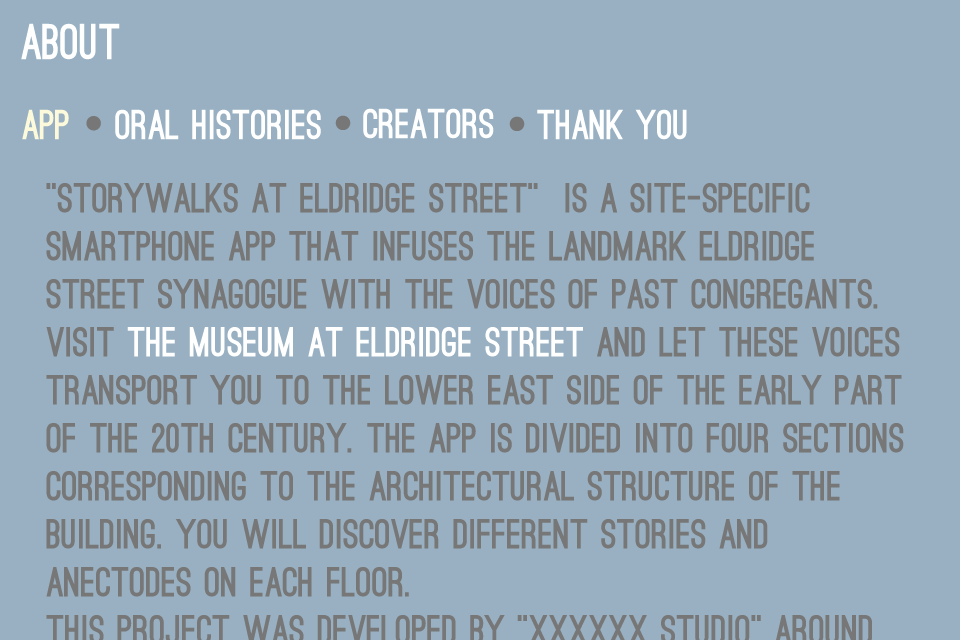
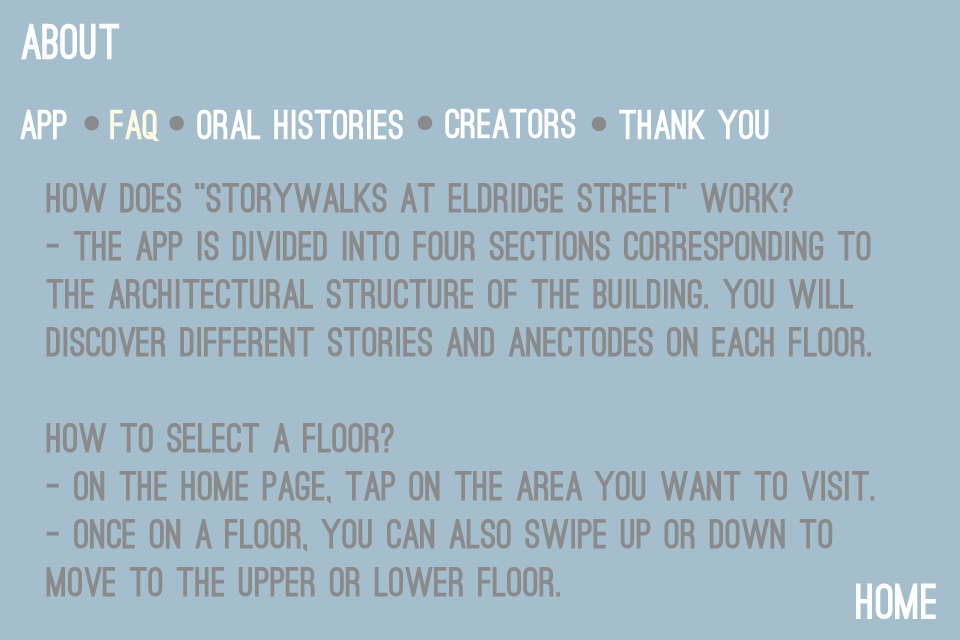
About page

diff --git a/ESS/src/aboutScene.mm b/ESS/src/aboutScene.mm
@@ -17,7 +17,7 @@ void aboutScene::setup() {
 //------------------------------------------------------------------
 void aboutScene::update() {
     switch(mgr.getCurScene()) {
-        case ABOUT_SCENE_FIRST:
+        case ABOUT_SCENE_APP:
             //Do stuff
             break;            
     }
@@ -25,7 +25,7 @@ void aboutScene::update() {
 
 //------------------------------------------------------------------
 void aboutScene::activate() {
-    mgr.setCurScene(ABOUT_SCENE_FIRST);
+    mgr.setCurScene(ABOUT_SCENE_APP);
     
     canvasW = 480;	//these define where the camera can pan to
     canvasH = 600;
@@ -37,20 +37,23 @@ void aboutScene::activate() {
     
 	cam.lookAt( ofVec2f(canvasW/2, 160) );
     cam.setViewportConstrain( ofVec3f(0,0), ofVec3f(canvasW, canvasH)); //limit browseable area, in world units
+
     
-    cout << "width is " << ofGetWidth() << endl; 
+    aboutScreen.loadImage("flattenFiles/AboutHorizontal.png");
     
-    aboutScreen.loadImage("flattenFiles/ESS-iPhone-About.png");
+    pApp.loadImage ("flattenFiles/about/AboutTextAPP.png"); 
+    pOralHistories.loadImage ("flattenFiles/about/AboutTextORALHISTORIES.png"); 
+    pCreators.loadImage ("flattenFiles/about/AboutTextCREATORS.png"); 
+    pThanks.loadImage ("flattenFiles/about/AboutTextTHANKYOU.png"); 
+    pFAQ.loadImage("flattenFiles/about/AboutTextFAQ.png"); 
+    
     //button.setImage(&aboutScreen,&aboutScreen);
     
-    rectHome.set(canvasW-70, canvasH-30, 70, 30);
-    TrectHome.set(canvasW-70, ofGetHeight() - 30, 70, 30);
-    cout << "rectHome is " << rectHome.x << " " <<  rectHome.y << endl; 
+    rectHome.set(ofGetWidth()-70, ofGetHeight() -30, 70, 30);
     
     buttHome.setLabel("HOME", &essAssets->ostrich24);
-    buttHome.setRect(rectHome);
-    buttHome.setGLRect(TrectHome);
-    buttHome.setColor(essAssets->ess_white, essAssets->ess_grey);
+    buttHome.setPos(ofGetWidth()-70, ofGetHeight() -40); 
+    buttHome.setColor(essAssets->ess_white, essAssets->ess_white);
     buttHome.disableBG();
     
     buttResetXML.setLabel("RESET", &essAssets->ostrich30);
@@ -60,8 +63,34 @@ void aboutScene::activate() {
     
     ofBackground(essAssets->ess_blue);
     
+    int leftMargin = 5; 
+    int dotMargin = 20; 
+    navY = 40; 
+    
+    int appL = essAssets->ostrich19.getStringWidth("APP"); 
+    int faqL = essAssets->ostrich19.getStringWidth("FAQ"); 
+    int OHL = essAssets->ostrich19.getStringWidth("ORAL HISTORIES");
+    int creatL = essAssets->ostrich19.getStringWidth("CREATORS");
+    
+    nApp.setLabel("APP", &essAssets->ostrich19); 
+    nApp.setPos (leftMargin, navY); 
+    nApp.disableBG();
 
-
+    nFAQ.setLabel("FAQ", &essAssets->ostrich19); 
+    nFAQ.setPos (appL + leftMargin + dotMargin, navY); 
+    nFAQ.disableBG();
+    
+    nOralHistories.setLabel("ORAL HISTORIES", &essAssets->ostrich19); 
+    nOralHistories.setPos (appL + faqL + leftMargin + dotMargin*2, navY ); 
+    nOralHistories.disableBG();
+        
+    nCreators.setLabel("CREATORS", &essAssets->ostrich19); 
+    nCreators.setPos (appL + faqL + OHL + leftMargin + dotMargin*3, navY); 
+    nCreators.disableBG();
+    
+    nThanks.setLabel("THANK YOU", &essAssets->ostrich19); 
+    nThanks.setPos (appL + faqL + OHL + creatL + leftMargin + dotMargin*4, navY); 
+    nThanks.disableBG();
     
 }
 
@@ -73,30 +102,65 @@ void aboutScene::deactivate() {
 
 //------------------------------------------------------------------
 void aboutScene::draw() {
-    
-    
+
     cam.apply(); //put all our drawing under the ofxPanZoom effect
+    //aboutScreen.draw (0,0, ofGetWidth(), ofGetHeight()); 
+    nApp.draw(); 
+    nFAQ.draw(); 
+    nOralHistories.draw();
+    nCreators.draw(); 
+    nThanks.draw(); 
+    
+    textY = navY + 50; 
+    
 
-
+    
     switch(mgr.getCurScene()) {
-        case ABOUT_SCENE_FIRST:
+        case ABOUT_SCENE_APP:
             
-            ofEnableAlphaBlending();
+            
+            
+            nApp.setColor (essAssets->ess_yellow); 
+            pApp.draw(0,textY,ofGetWidth(), pApp.height/2); 
+            cam.reset();	//back to normal ofSetupScreen() projection            
+            break;
+            
+        case ABOUT_SCENE_FAQ:
+            
 
             
-            ofSetColor(255, 255, 255); 
-            aboutScreen.draw (0,0, 480, 523); 
+            nFAQ.setColor (essAssets->ess_yellow); 
+            pFAQ.draw(0,textY,ofGetWidth(), pFAQ.height/2); 
+            cam.reset();	//back to normal ofSetupScreen() projection            
+            break;
             
-            buttHome.draw(); 
-            buttResetXML.draw();
-            ofDisableAlphaBlending();
+        case ABOUT_SCENE_ORALHISTORIES:
             
+            nOralHistories.setColor (essAssets->ess_yellow); 
+            pOralHistories.draw(0,textY,ofGetWidth(), pOralHistories.height/2); 
+            cam.reset();	//back to normal ofSetupScreen() projection            
+            break;
+            
+        case ABOUT_SCENE_CREATORS:
+            
+            nCreators.setColor (essAssets->ess_yellow); 
+            pCreators.draw(0,textY,ofGetWidth(), pCreators.height/2); 
+            cam.reset();	//back to normal ofSetupScreen() projection            
+            break;
+            
+        case ABOUT_SCENE_THANKYOU:
+            
+            nThanks.setColor (essAssets->ess_yellow); 
+            pThanks.draw(0,textY,ofGetWidth(), pThanks.height/2); 
+            cam.reset();	//back to normal ofSetupScreen() projection            
             break;
             
     }
-    
-    cam.reset();	//back to normal ofSetupScreen() projection
 
+    ofPushMatrix();
+    ofSetColor(255, 255, 255); 
+    buttHome.draw(); 
+    ofPopMatrix();
     
 }
 
@@ -110,10 +174,21 @@ void aboutScene::draw() {
 //--------------------------------------------------------------
 void aboutScene::touchDown(ofTouchEventArgs &touch){
     button.touchDown(touch);
-    buttHome.GLtouchDown(touch);
+    //buttHome.GLtouchDown(touch);
     buttResetXML.touchDown(touch);
     
     cam.touchDown(touch); //fw event to cam
+    ofVec3f panTouch =  cam.screenToWorld( ofVec3f( touch.x, touch.y) );	//convert touch (in screen units) to world units
+    
+    ofTouchEventArgs touchTemp;
+    touchTemp.x = panTouch.x;
+    touchTemp.y = panTouch.y;     
+    buttHome.touchDown(touch);
+    nApp.touchDown(touchTemp); 
+    nOralHistories.touchDown(touchTemp); 
+    nCreators.touchDown(touchTemp); 
+    nThanks.touchDown(touchTemp); 
+    nFAQ.touchDown(touchTemp); 
 }
 
 
@@ -139,17 +214,70 @@ void aboutScene::touchUp(ofTouchEventArgs &touch){
     }
      */
     
+    
+    if (nApp.isPressed()) {
+        canvasW = pApp.width;	
+        canvasH = pApp.height;
+        cam.lookAt( ofVec2f(canvasW/2, ofGetHeight()) );
+        cam.setViewportConstrain( ofVec3f(0,0), ofVec3f(canvasW, canvasH));
+        mgr.setCurScene(ABOUT_SCENE_APP); 
+    } else if (nFAQ.isPressed()) {
+        canvasW = pFAQ.width;	
+        canvasH = pFAQ.height;
+        cam.lookAt( ofVec2f(canvasW/2, ofGetHeight()) );
+        cam.setViewportConstrain( ofVec3f(0,0), ofVec3f(canvasW, canvasH));
+        mgr.setCurScene(ABOUT_SCENE_FAQ); 
+    } else if (nOralHistories.isPressed()) {
+        canvasW = pOralHistories.width;	
+        canvasH = pOralHistories.height;
+        cam.lookAt( ofVec2f(canvasW/2, ofGetHeight()) );
+        cam.setViewportConstrain( ofVec3f(0,0), ofVec3f(canvasW, canvasH));
+        mgr.setCurScene(ABOUT_SCENE_ORALHISTORIES); 
+    } else if (nCreators.isPressed()) {
+        canvasW = pCreators.width;	
+        canvasH = pCreators.height;
+        cam.lookAt( ofVec2f(canvasW/2, ofGetHeight()) );
+        cam.setViewportConstrain( ofVec3f(0,0), ofVec3f(canvasW, canvasH));
+        mgr.setCurScene(ABOUT_SCENE_CREATORS); 
+    } else if (nThanks.isPressed()) {
+        canvasW = pThanks.width;	
+        canvasH = pThanks.height;
+        cam.lookAt( ofVec2f(canvasW/2, ofGetHeight()) );
+        cam.setViewportConstrain( ofVec3f(0,0), ofVec3f(canvasW, canvasH));
+        mgr.setCurScene(ABOUT_SCENE_THANKYOU); 
+    }
+
+
     if (buttHome.isPressed()) {
         essSM->setCurScene(SCENE_HOME);
-        cout << "button pressed" << endl; 
     }
     if (buttResetXML.isPressed()) resetPlayed();
     
     buttResetXML.touchUp(touch);
-    buttHome.GLtouchUp(touch);
+    buttHome.touchUp(touch);
     button.touchUp(touch);
     
     cam.touchUp(touch); //fw event to cam
+
+    ofVec3f panTouch =  cam.screenToWorld( ofVec3f( touch.x, touch.y) );	//convert touch (in screen units) to world units
+    
+    ofTouchEventArgs touchTemp;
+    touchTemp.x = panTouch.x;
+    touchTemp.y = panTouch.y;     
+    
+    nApp.touchUp(touchTemp); 
+    nOralHistories.touchUp(touchTemp); 
+    nCreators.touchUp(touchTemp); 
+    nThanks.touchUp(touchTemp); 
+    nFAQ.touchUp(touchTemp);
+    
+    
+    nApp.setColor (essAssets->ess_white); 
+    nOralHistories.setColor(essAssets->ess_white); 
+    nCreators.setColor (essAssets->ess_white); 
+    nThanks.setColor(essAssets->ess_white); 
+    nFAQ.setColor(essAssets->ess_white); 
+    
 }
 
 //--------------------------------------------------------------
@@ -158,4 +286,7 @@ void aboutScene::touchDoubleTap(ofTouchEventArgs &touch){
 	cam.touchDoubleTap(touch); //fw event to cam
 	cam.setZoom(1.0f);	//reset zoom
 	cam.lookAt( ofVec2f(canvasW/2, canvasH/2) ); //reset position
+    
+    
+    
 }

diff --git a/ESS/src/aboutScene.h b/ESS/src/aboutScene.h
@@ -13,7 +13,11 @@
 #include "ofxPanZoom.h"
 
 enum {
-    ABOUT_SCENE_FIRST,
+    ABOUT_SCENE_APP,
+    ABOUT_SCENE_FAQ,
+    ABOUT_SCENE_ORALHISTORIES,
+    ABOUT_SCENE_CREATORS,
+    ABOUT_SCENE_THANKYOU,
     ABOUT_SCENE_TOTAL
 };
 
@@ -42,6 +46,10 @@ public:
     int canvasW;
     int canvasH;
     
+    int navY, textY; 
+    
+    baseButton nApp, nOralHistories, nCreators, nThanks, nFAQ; 
+    ofImage pApp, pOralHistories, pCreators, pThanks, pFAQ; 
 private:
     
     ofImage aboutScreen; //lia - replace pictures here. 

diff --git a/ESS/src/essAssetManager.mm b/ESS/src/essAssetManager.mm
@@ -38,6 +38,7 @@ essAssetManager::essAssetManager() {
 void essAssetManager::loadFonts() {
 	whitneySemiBold22.loadFont("fonts/Whitney-Semibold.otf",22);
 	ostrich19.loadFont("fonts/ostrich-black.ttf", 19);
+    ostrich20.loadFont("fonts/ostrich-black.ttf", 20);
     ostrich24.loadFont("fonts/ostrich-black.ttf", 24);
     ostrich23.loadFont("fonts/ostrich-black.ttf", 23);
     ostrich30.loadFont("fonts/ostrich-black.ttf", 30);

diff --git a/ESS/src/essAssetManager.h b/ESS/src/essAssetManager.h
@@ -26,7 +26,7 @@ public:
         
     //Fonts
     ofxFreeType2 whitneySemiBold22;
-    ofxFreeType2 ostrich19, ostrich23, ostrich24; 
+    ofxFreeType2 ostrich19, ostrich23, ostrich24, ostrich20; 
     ofxFreeType2 ostrich30; 
     
     //Colors
